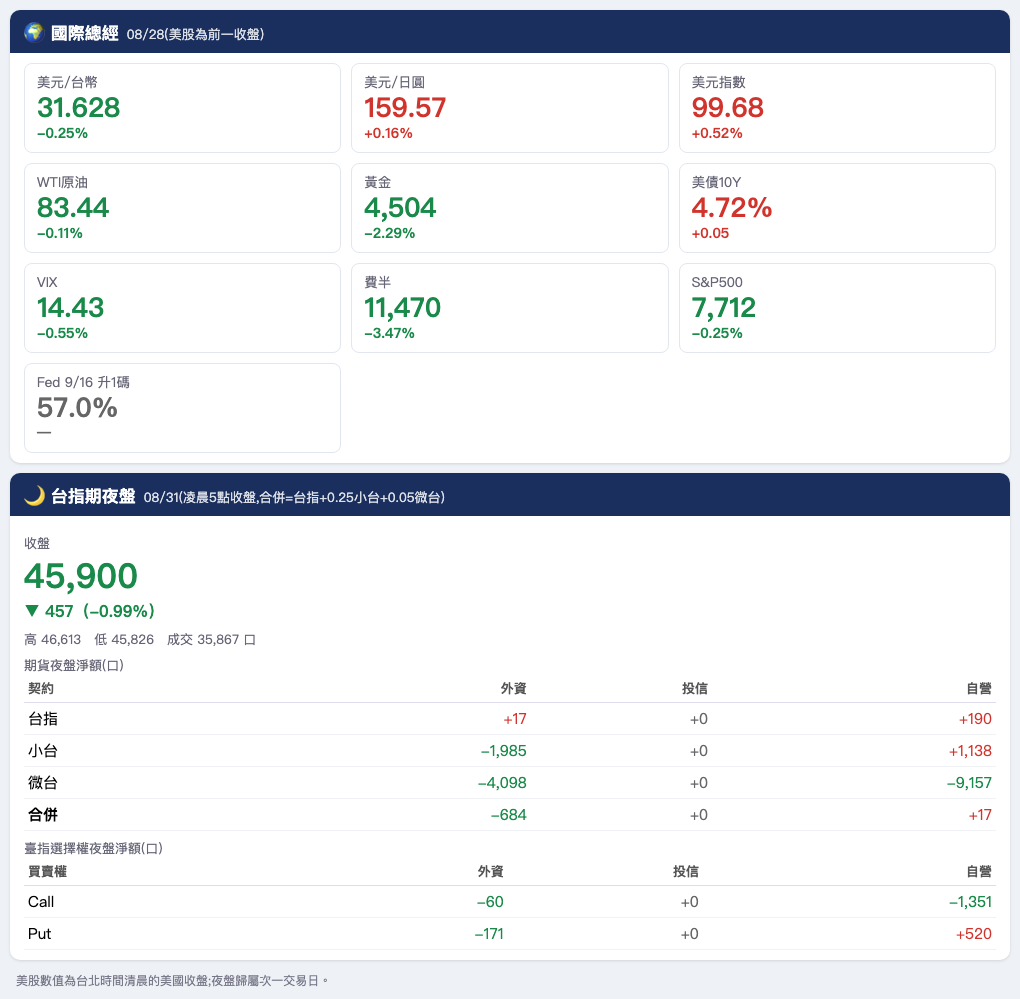
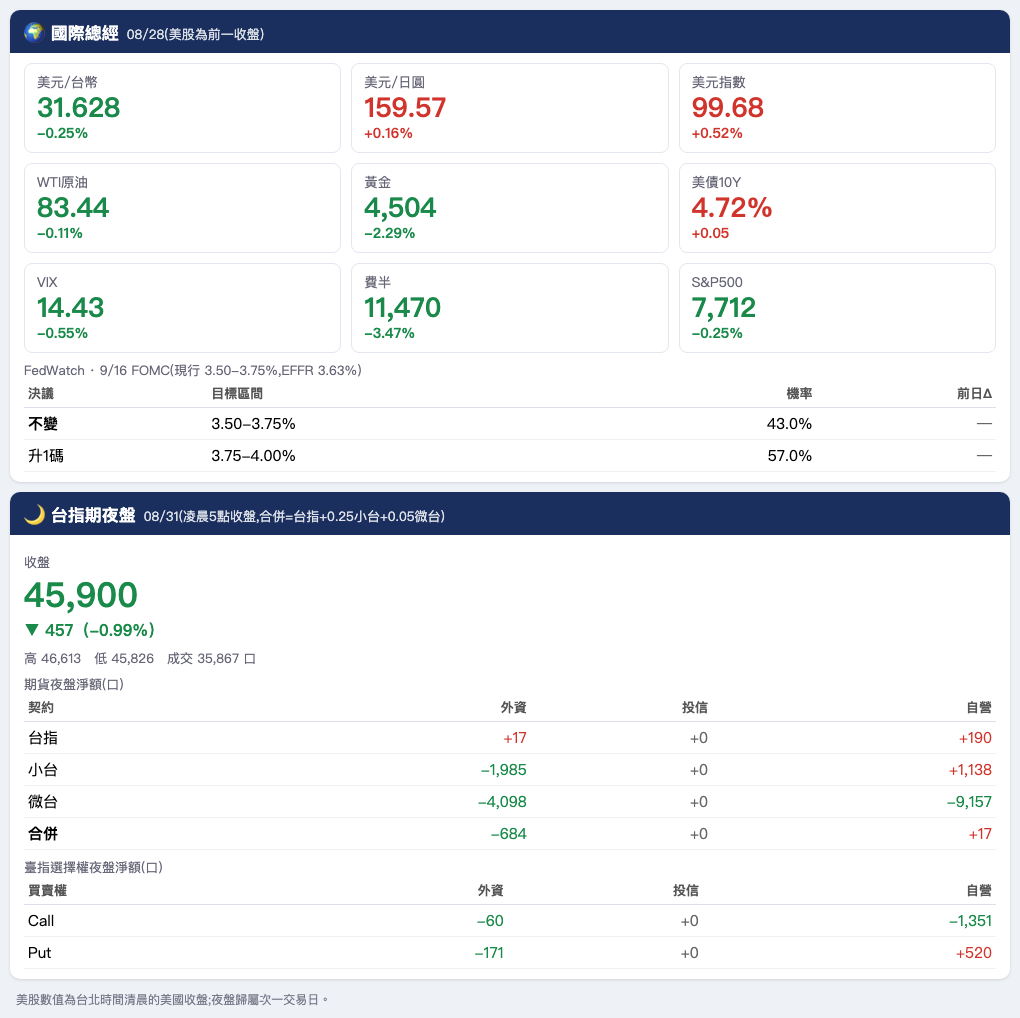
fedwatch: 列出全部檔位而非只顯示前兩名
早報改為列出最近一次會議所有有機率的目標區間(門檻 0.05%),依區間
由低到高排序,並標示相對現行區間的決議幅度:降2碼/降1碼/不變/升1碼/
升2碼…,「不變」加粗當基準。演算法本就支援多碼與降息方向,先前只是
在顯示層取了前兩名。

儀表板同步:原本國際總經網格裡的單格 tile 改為完整表格,附前日Δ。

Claude-Session: https://claude.ai/code/session_01KCPAqpXo8GLmNsVMxqwVAN

diff --git a/reports/2026-08-29/morning.html b/reports/2026-08-29/morning.html
@@ -72,7 +72,8 @@ td.num, th.num { text-align:right; font-variant-numeric:tabular-nums; }
     <div class="row">
     <div class="card">
       <div class="hd">🌍 國際總經<small>08/28(美股為前一收盤)</small></div>
-      <div class="bd"><div class="mgrid"><div class="mtile"><div class="mname">美元/台幣</div><div class="mval dn">31.628</div><div class="mchg dn">-0.25%</div></div><div class="mtile"><div class="mname">美元/日圓</div><div class="mval up">159.57</div><div class="mchg up">+0.16%</div></div><div class="mtile"><div class="mname">美元指數</div><div class="mval up">99.68</div><div class="mchg up">+0.52%</div></div><div class="mtile"><div class="mname">WTI原油</div><div class="mval dn">83.44</div><div class="mchg dn">-0.11%</div></div><div class="mtile"><div class="mname">黃金</div><div class="mval dn">4,504</div><div class="mchg dn">-2.29%</div></div><div class="mtile"><div class="mname">美債10Y</div><div class="mval up">4.72%</div><div class="mchg up">+0.05</div></div><div class="mtile"><div class="mname">VIX</div><div class="mval dn">14.43</div><div class="mchg dn">-0.55%</div></div><div class="mtile"><div class="mname">費半</div><div class="mval dn">11,470</div><div class="mchg dn">-3.47%</div></div><div class="mtile"><div class="mname">S&P500</div><div class="mval dn">7,712</div><div class="mchg dn">-0.25%</div></div><div class="mtile"><div class="mname">Fed 9/16 升1碼</div><div class="mval flat">57.0%</div><div class="mchg flat">—</div></div></div></div>
+      <div class="bd"><div class="mgrid"><div class="mtile"><div class="mname">美元/台幣</div><div class="mval dn">31.628</div><div class="mchg dn">-0.25%</div></div><div class="mtile"><div class="mname">美元/日圓</div><div class="mval up">159.57</div><div class="mchg up">+0.16%</div></div><div class="mtile"><div class="mname">美元指數</div><div class="mval up">99.68</div><div class="mchg up">+0.52%</div></div><div class="mtile"><div class="mname">WTI原油</div><div class="mval dn">83.44</div><div class="mchg dn">-0.11%</div></div><div class="mtile"><div class="mname">黃金</div><div class="mval dn">4,504</div><div class="mchg dn">-2.29%</div></div><div class="mtile"><div class="mname">美債10Y</div><div class="mval up">4.72%</div><div class="mchg up">+0.05</div></div><div class="mtile"><div class="mname">VIX</div><div class="mval dn">14.43</div><div class="mchg dn">-0.55%</div></div><div class="mtile"><div class="mname">費半</div><div class="mval dn">11,470</div><div class="mchg dn">-3.47%</div></div><div class="mtile"><div class="mname">S&P500</div><div class="mval dn">7,712</div><div class="mchg dn">-0.25%</div></div></div>
+      <div class="lbl">FedWatch · 9/16 FOMC(現行 3.50-3.75%,EFFR 3.63%)</div><table><tr><th>決議</th><th>目標區間</th><th class="num">機率</th><th class="num">前日Δ</th></tr><tr><td><b>不變</b></td><td>3.50-3.75%</td><td class="num">43.0%</td><td class="num flat">—</td></tr><tr><td>升1碼</td><td>3.75-4.00%</td><td class="num">57.0%</td><td class="num flat">—</td></tr></table></div>
     </div></div>
     <div class="row">
     <div class="card">

diff --git a/core/dashboard.py b/core/dashboard.py
@@ -426,40 +426,51 @@ def _sec_pc(conn):
 
 
 # ================================================================ 早上:總經＋夜盤
-def _fedwatch_tile(conn):
-    """最近一次 FOMC 會議機率最高的檔位,做成一格 tile(含前一快照變化)。"""
+def _fedwatch_block(conn):
+    """最近一次 FOMC 會議的完整機率分布:不變、升降息、多碼皆列出。"""
     row = conn.execute(
         "SELECT data_date, meeting_date FROM fedwatch"
         " ORDER BY data_date DESC, meeting_date ASC LIMIT 1").fetchone()
-    if not row:
+    effr = conn.execute(
+        "SELECT exp_effr FROM fedwatch_rate WHERE data_date=(SELECT"
+        " MAX(data_date) FROM fedwatch) AND meeting_date='current'").fetchone()
+    if not row or not effr:
         return ""
     snap, meeting = row
-    top = conn.execute(
+    cur_bp = int(effr[0] * 100 // 25 * 25)      # EFFR 落在哪個 25bp 網格
+    buckets = conn.execute(
         "SELECT bucket_bp, prob FROM fedwatch WHERE data_date=? AND"
-        " meeting_date=? ORDER BY prob DESC LIMIT 1", (snap, meeting)).fetchone()
-    effr = conn.execute(
-        "SELECT exp_effr FROM fedwatch_rate WHERE data_date=? AND"
-        " meeting_date='current'", (snap,)).fetchone()
-    if not top or not effr:
+        " meeting_date=? AND prob>=0.0005 ORDER BY bucket_bp",
+        (snap, meeting)).fetchall()
+    if not buckets:
         return ""
-    bp, prob = top
-    steps = (bp - int(effr[0] * 100 // 25 * 25)) // 25
-    label = "不變" if steps == 0 else (f"升{steps}碼" if steps > 0
-                                       else f"降{-steps}碼")
-    prev = conn.execute(
-        "SELECT prob FROM fedwatch WHERE meeting_date=? AND bucket_bp=?"
-        " AND data_date<? ORDER BY data_date DESC LIMIT 1",
-        (meeting, bp, snap)).fetchone()
-    if prev:
-        d = (prob - prev[0]) * 100
-        cls = "up" if d > 0 else ("dn" if d < 0 else "flat")
-        chg_txt = f"{d:+.1f}pp"
-    else:
-        cls, chg_txt = "flat", "—"
+    trs = []
+    for bp, p in buckets:
+        steps = (bp - cur_bp) // 25
+        label = "不變" if steps == 0 else (f"升{steps}碼" if steps > 0
+                                           else f"降{-steps}碼")
+        prev = conn.execute(
+            "SELECT prob FROM fedwatch WHERE meeting_date=? AND bucket_bp=?"
+            " AND data_date<? ORDER BY data_date DESC LIMIT 1",
+            (meeting, bp, snap)).fetchone()
+        if prev:
+            d = (p - prev[0]) * 100
+            cls = "up" if d > 0 else ("dn" if d < 0 else "flat")
+            chg = f"{d:+.1f}pp"
+        else:
+            cls, chg = "flat", "—"
+        name = f"<b>{label}</b>" if steps == 0 else label
+        trs.append(f'<tr><td>{name}</td>'
+                   f'<td>{bp / 100:.2f}-{(bp + 25) / 100:.2f}%</td>'
+                   f'<td class="num">{p * 100:.1f}%</td>'
+                   f'<td class="num {cls}">{chg}</td></tr>')
     md = meeting[5:].replace("-", "/").lstrip("0").replace("/0", "/")
-    return (f'<div class="mtile"><div class="mname">Fed {md} {label}</div>'
-            f'<div class="mval {cls}">{prob * 100:.1f}%</div>'
-            f'<div class="mchg {cls}">{chg_txt}</div></div>')
+    return (f'<div class="lbl">FedWatch · {md} FOMC(現行 '
+            f'{cur_bp / 100:.2f}-{(cur_bp + 25) / 100:.2f}%,'
+            f'EFFR {effr[0]:.2f}%)</div>'
+            '<table><tr><th>決議</th><th>目標區間</th>'
+            '<th class="num">機率</th><th class="num">前日Δ</th></tr>'
+            + "".join(trs) + '</table>')
 
 
 def _sec_macro(conn):
@@ -489,7 +500,6 @@ def _sec_macro(conn):
             f'<div class="mtile"><div class="mname">{name}</div>'
             f'<div class="mval {cls}">{v:,.{dec}f}{suffix}</div>'
             f'<div class="mchg {cls}">{chg_txt}</div></div>')
-    tiles.append(_fedwatch_tile(conn))
     if not tiles:
         return "", None
     fx = latest2("USDTWD")
@@ -498,7 +508,8 @@ def _sec_macro(conn):
     html = f"""
     <div class="card">
       <div class="hd">🌍 國際總經<small>{dd[5:].replace('-', '/')}(美股為前一收盤)</small></div>
-      <div class="bd"><div class="mgrid">{''.join(tiles)}</div></div>
+      <div class="bd"><div class="mgrid">{''.join(tiles)}</div>
+      {_fedwatch_block(conn)}</div>
     </div>"""
     return html, dd
 

diff --git a/sources/fedwatch.py b/sources/fedwatch.py
@@ -226,35 +226,37 @@ def _fmt_range(bp):
 
 
 def build_message(conn):
-    """早報只講最近一次會議:機率最高的兩個區間 + 前一快照的變化。"""
+    """早報只講最近一次會議,但該次所有有機率的檔位都列出(不變、升降息、
+    多碼),依目標區間由低到高排序 — 與 CME 表格的排法一致。"""
     row = conn.execute(
         "SELECT data_date, meeting_date FROM fedwatch"
         " ORDER BY data_date DESC, meeting_date ASC LIMIT 1").fetchone()
-    if not row:
+    base = conn.execute(
+        "SELECT exp_effr FROM fedwatch_rate WHERE data_date=(SELECT"
+        " MAX(data_date) FROM fedwatch) AND meeting_date='current'").fetchone()
+    if not row or not base:
         return None, {}
     snap, meeting = row
-    cur = dict(conn.execute(
+    cur_bp = int(base[0] * 100 // 25 * 25)      # EFFR 落在哪個 25bp 網格
+    buckets = conn.execute(
         "SELECT bucket_bp, prob FROM fedwatch WHERE data_date=? AND"
-        " meeting_date=?", (snap, meeting)).fetchall())
+        " meeting_date=? AND prob>=0.0005 ORDER BY bucket_bp",
+        (snap, meeting)).fetchall()
+    if not buckets:
+        return None, {}
     prev_snap = conn.execute(
         "SELECT MAX(data_date) FROM fedwatch WHERE data_date<?",
         (snap,)).fetchone()[0]
     prev = dict(conn.execute(
         "SELECT bucket_bp, prob FROM fedwatch WHERE data_date=? AND"
         " meeting_date=?", (prev_snap, meeting)).fetchall()) if prev_snap else {}
-    base = conn.execute(
-        "SELECT exp_effr FROM fedwatch_rate WHERE data_date=? AND"
-        " meeting_date='current'", (snap,)).fetchone()
-    top = sorted(cur.items(), key=lambda kv: -kv[1])[:2]
-    if not top:
-        return None, {}
     md = dt.date.fromisoformat(meeting)
     lines = [f"🏛 FedWatch {md.month}/{md.day} 會議"]
-    for bp, p in top:
-        chg = ""
-        if bp in prev:
-            chg = f"（{(p - prev[bp]) * 100:+.1f}pp）"
-        lines.append(f"{_fmt_range(bp)} {p * 100:.1f}%{chg}")
-    if base:
-        lines.append(f"現行 EFFR {base[0]:.2f}%")
+    for bp, p in buckets:
+        steps = (bp - cur_bp) // 25
+        label = "不變" if steps == 0 else (f"升{steps}碼" if steps > 0
+                                           else f"降{-steps}碼")
+        chg = f"（{(p - prev[bp]) * 100:+.1f}pp）" if bp in prev else ""
+        lines.append(f"{label} {_fmt_range(bp)} {p * 100:.1f}%{chg}")
+    lines.append(f"現行 {_fmt_range(cur_bp)}、EFFR {base[0]:.2f}%")
     return "\n".join(lines), {"fedwatch": snap}
